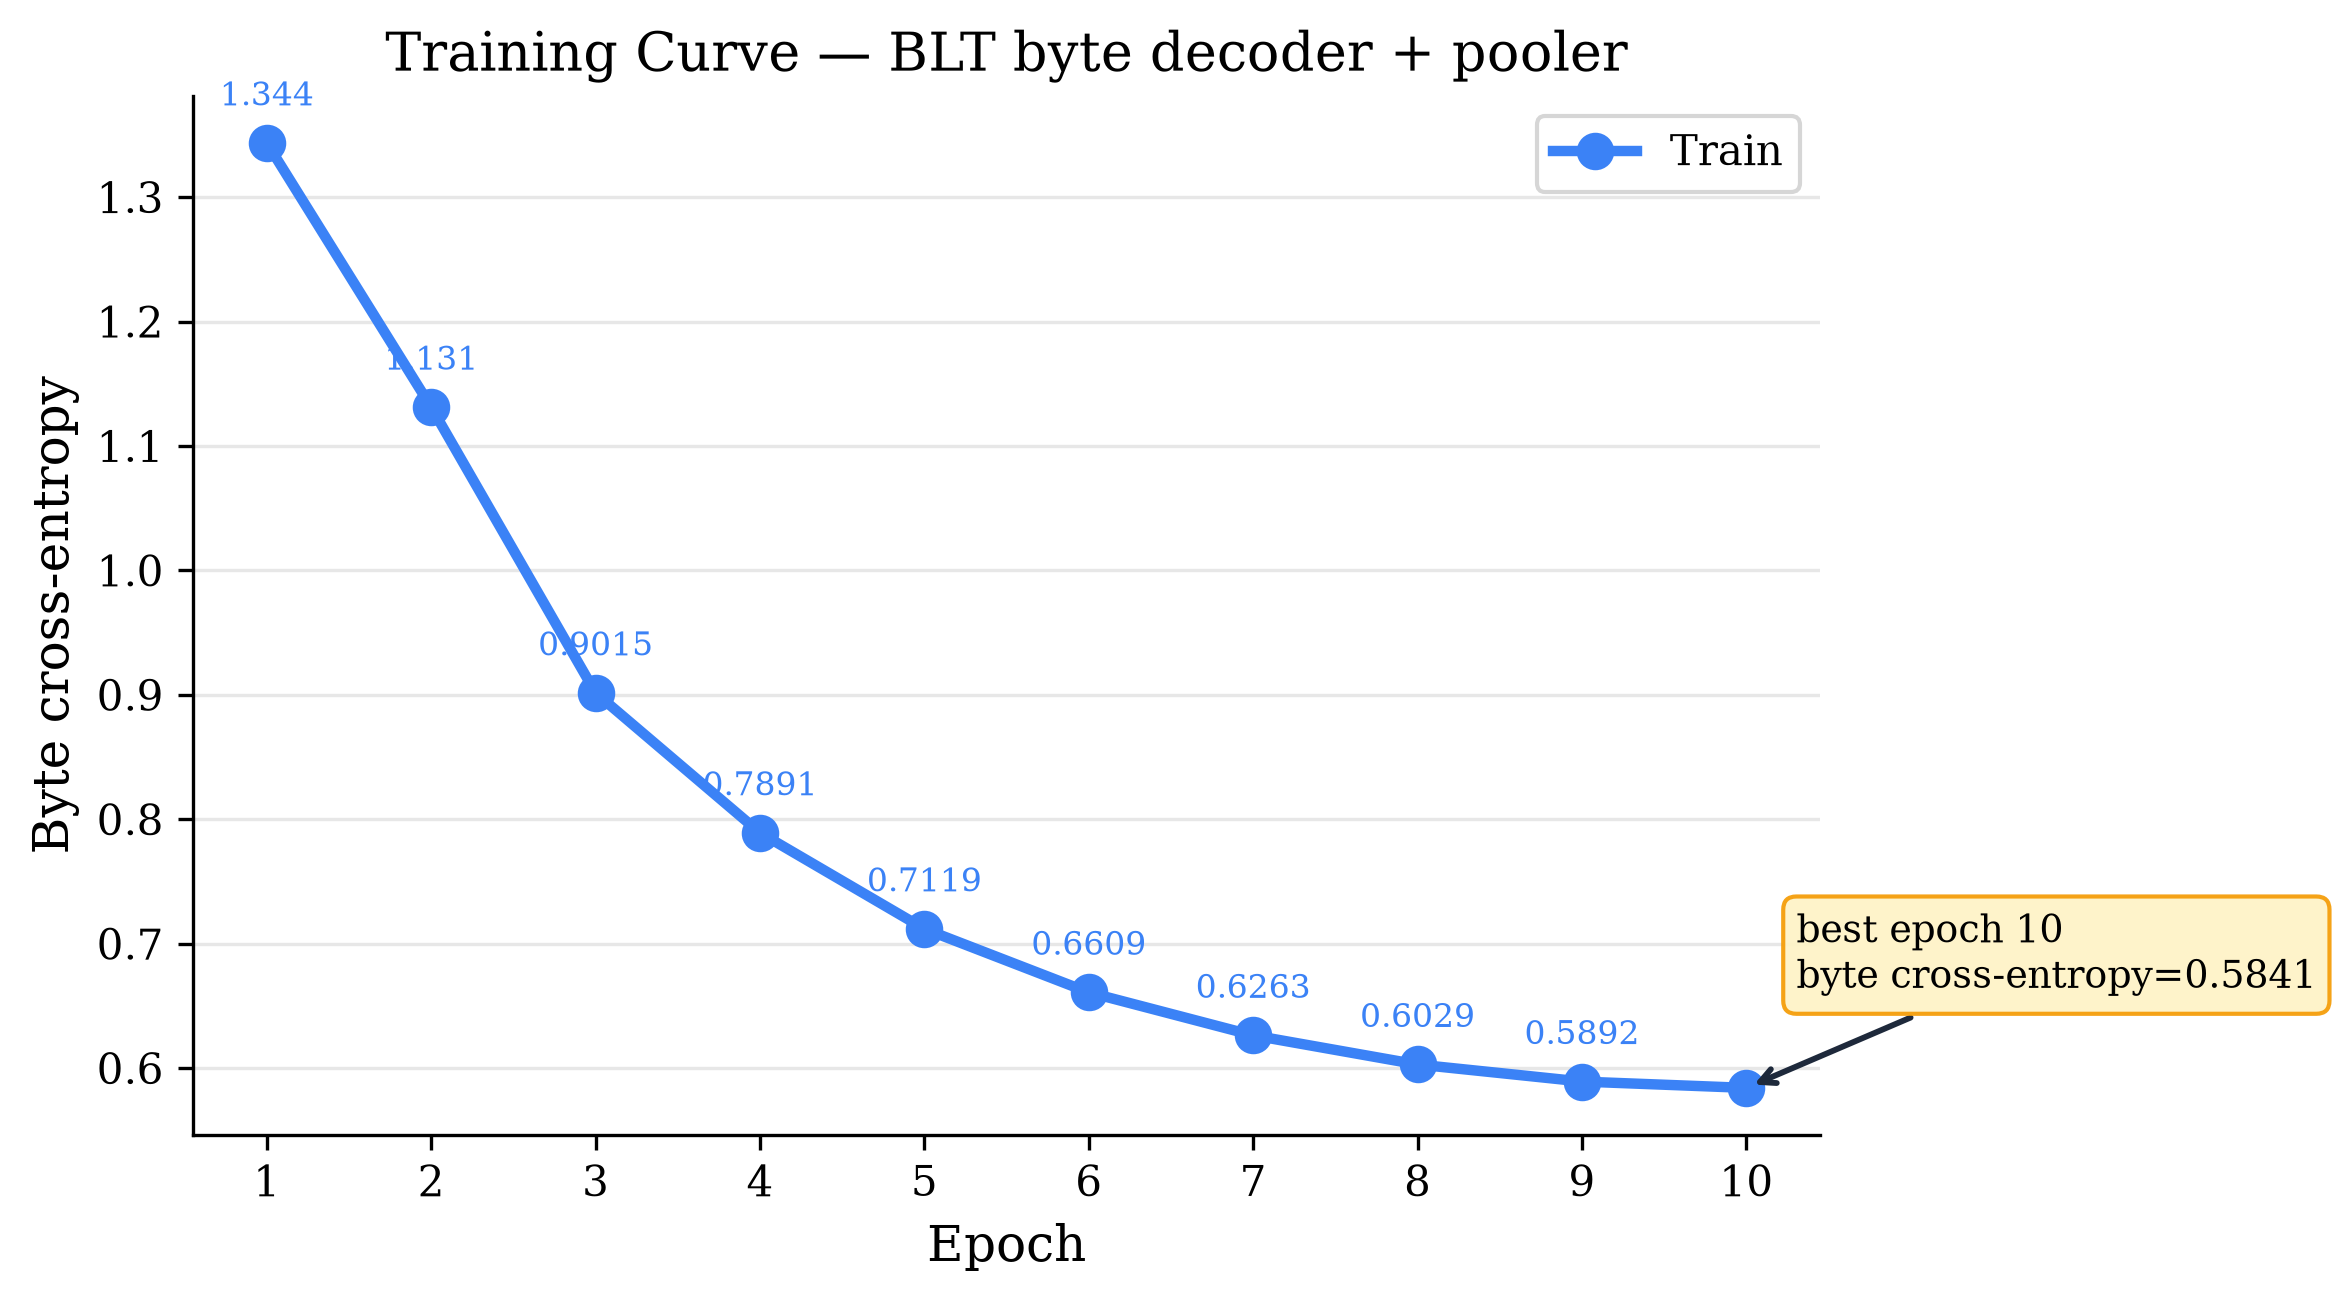
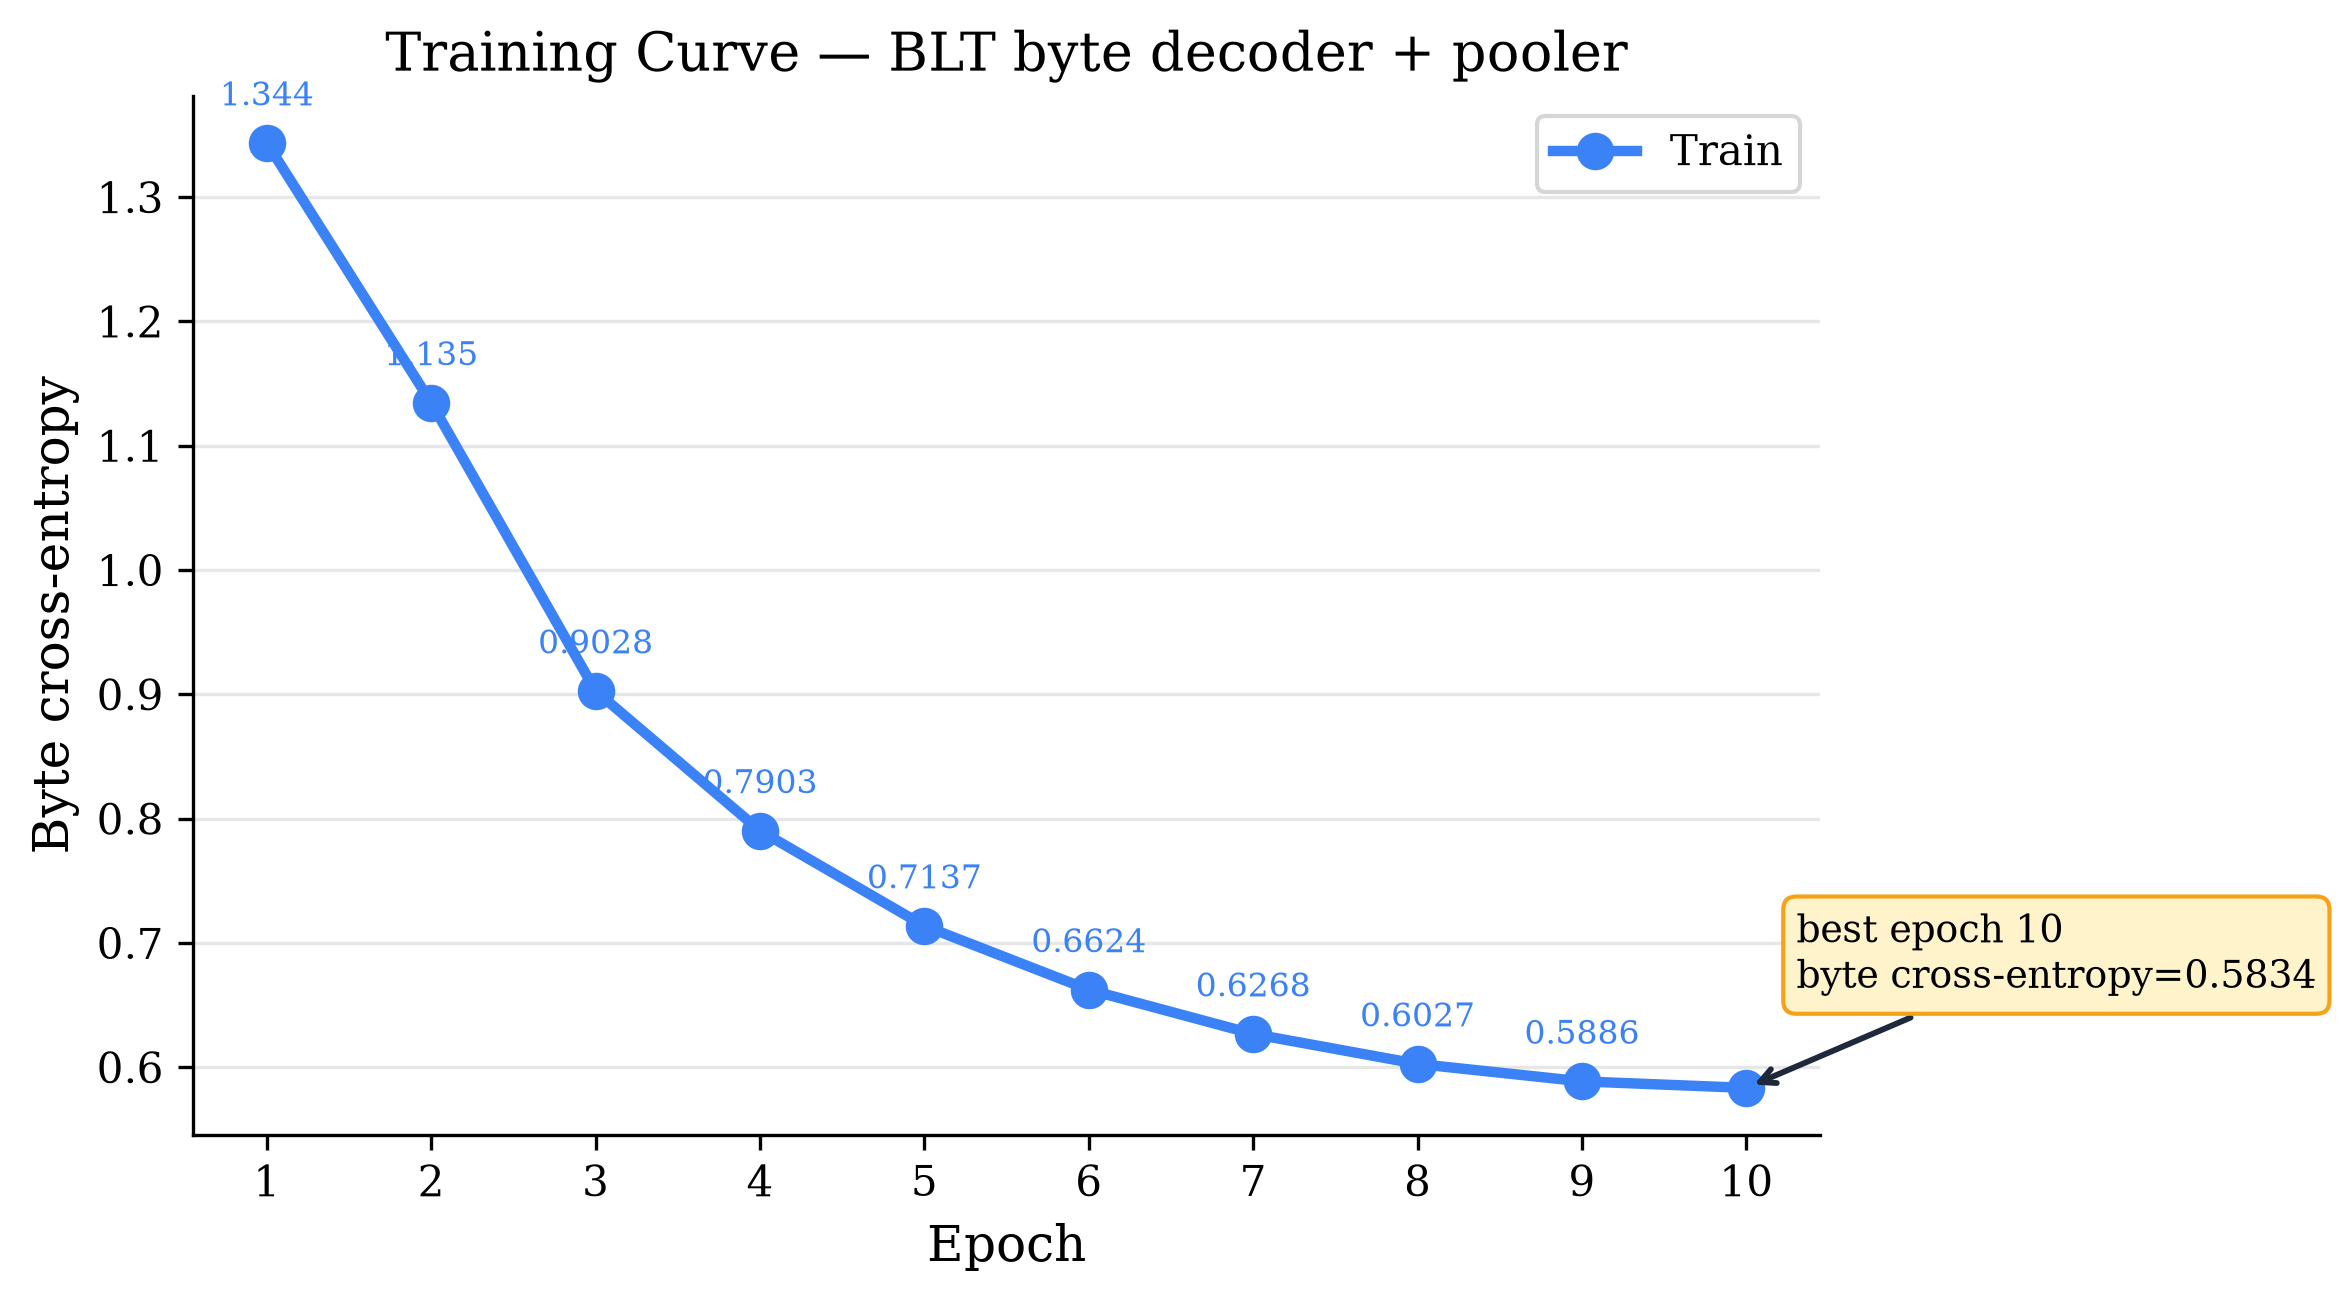
results: blt_decoder (blt_decoder.py)
best_byte_cross_entropy: 0.5834021835911031
best_epoch: 10
epochs_run: 10
byte_perplexity: 1.7921252096908382

diff --git a/results/runs/blt_decoder/README.md b/results/runs/blt_decoder/README.md
@@ -1,19 +1,19 @@
 # blt_decoder
 
 * script: `blt_decoder.py`
-* finished: 2026-08-16T10:16:03Z
-* wall clock: 973.8 s
-* code: `282ccc8` on `main` (working tree dirty)
+* finished: 2026-08-17T04:47:42Z
+* wall clock: 1056.8 s
+* code: `1fbad41` on `main` (working tree dirty)
 * device: NVIDIA RTX PRO 6000 Blackwell Server Edition
 
 ## Results
 
 | metric | value |
 | --- | --- |
-| best_byte_cross_entropy | 0.5840969350264997 |
+| best_byte_cross_entropy | 0.5834021835911031 |
 | best_epoch | 10 |
 | epochs_run | 10 |
-| byte_perplexity | 1.7933707238639627 |
+| byte_perplexity | 1.7921252096908382 |
 
 ## Run info
 
@@ -29,7 +29,7 @@
 | min_delta | 0.0 |
 | min_epochs | 1 |
 | epochs_observed | 10 |
-| best | 0.5840969350264997 |
+| best | 0.5834021835911031 |
 | best_epoch | 10 |
 | epochs_since_improvement | 0 |
 | stop_reason | reached the --epochs cap of 10 |
